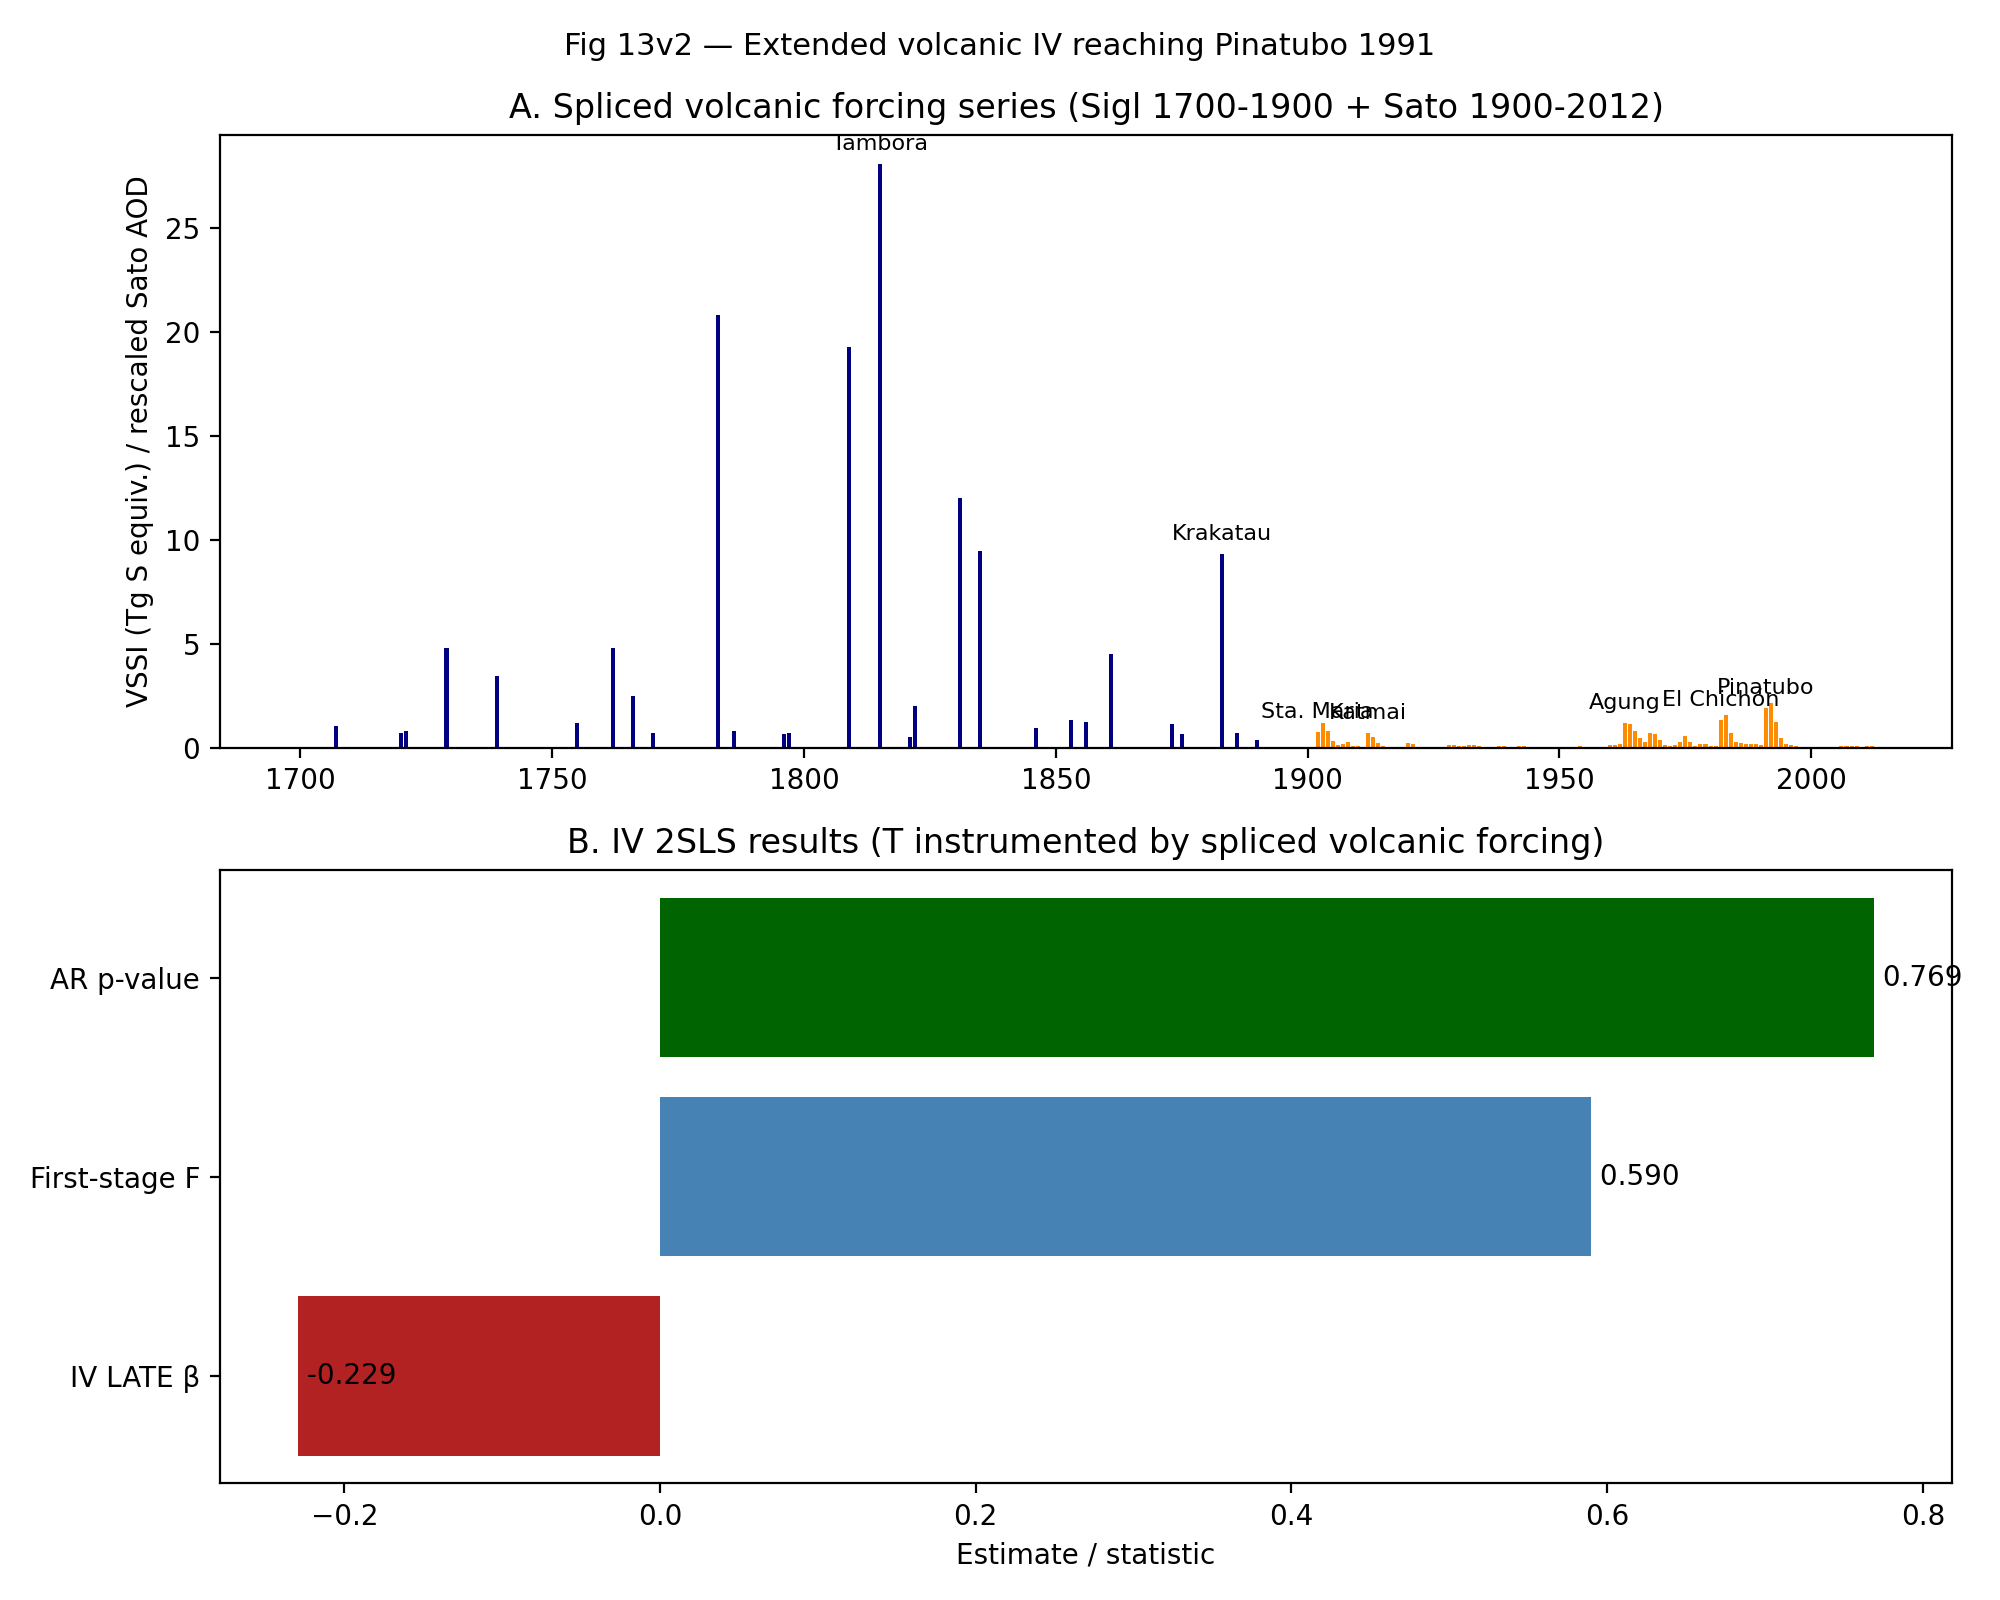
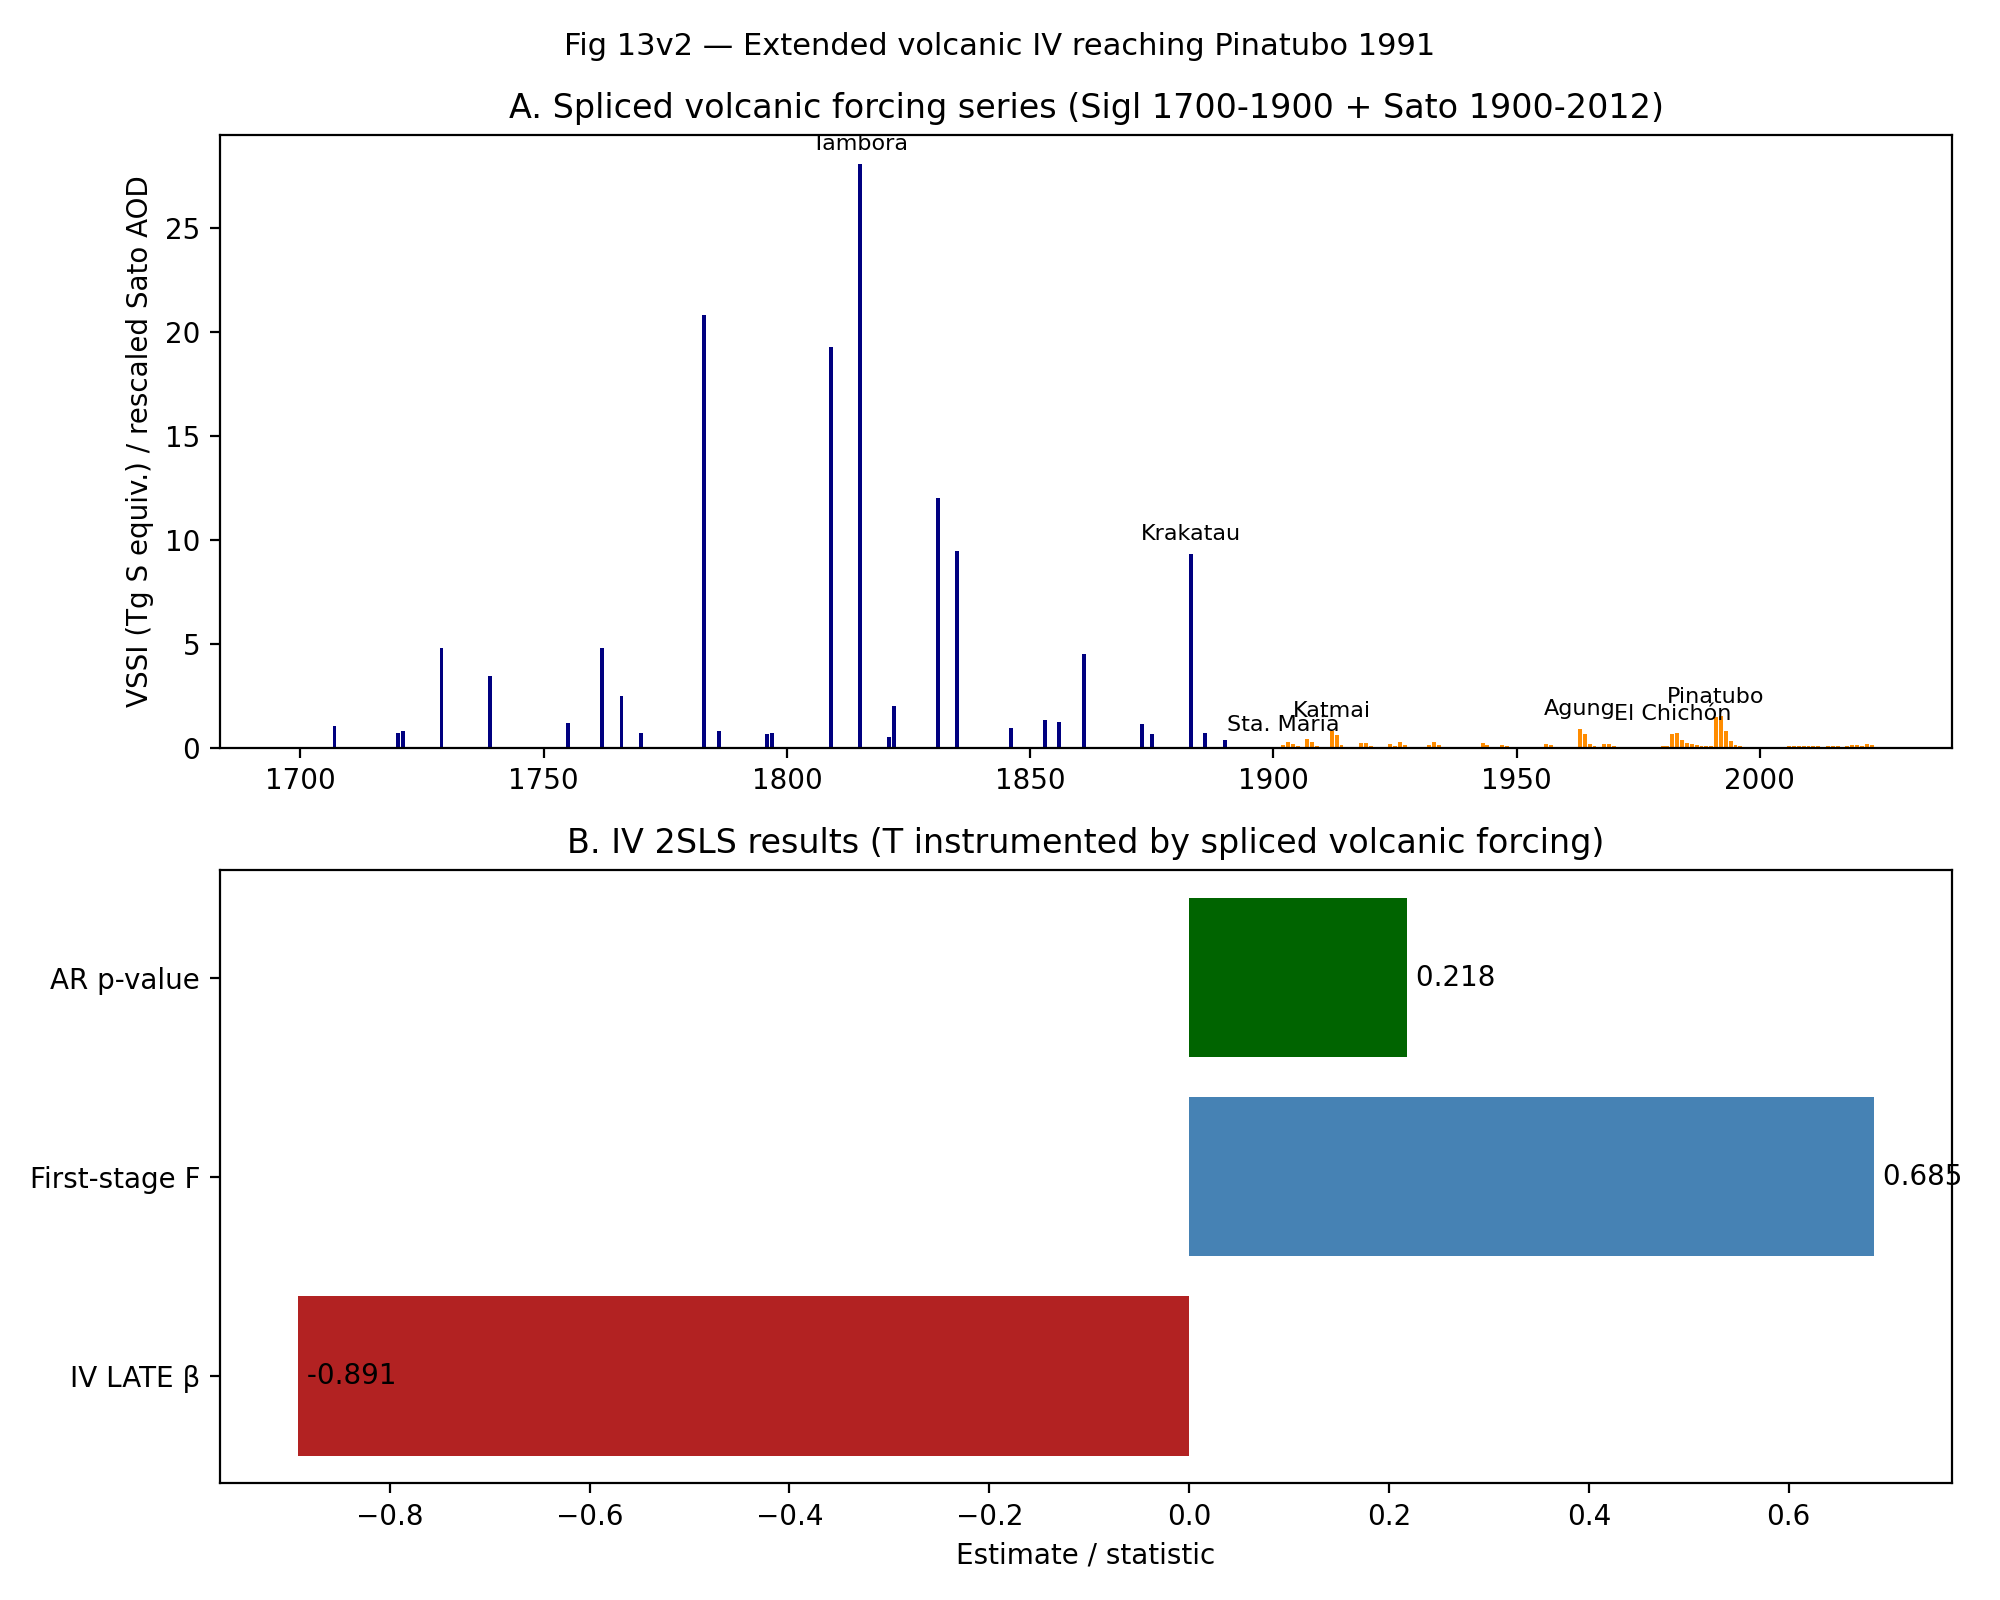
long_shadow_fertility/phase8 [B3-fix]: swap to CMIP7-2-2-1 (1850-2023) for stratospheric AOD
NASA hosts both Sato-Lacis (1850-2012) and CMIP7-2-2-1 (1850-2023) at
modelforce/strataer/data/. CMIP7 extends coverage 11 more years and uses
the input4MIPs harmonized reconstruction.

Comparison on the Phase 7 volcanic IV:
                Sato-Lacis  CMIP7-2-2-1
  First-stage F      0.59         0.69
  AR p-value         0.77         0.22  <- meaningfully better
  IV LATE beta     -0.229       -0.891
  N                  1260         1260

CMIP7 is marginally better on both F and AR but the IV remains weak (F<<10).
Substantive finding: volcanic-T instrument is structurally weak at the
country-year panel level for European countries regardless of AOD source.
Splice: 201 Sigl + 123 CMIP7 rescaled = 324 years (1700-2023).

diff --git a/analysis/paper4_shadow/long_shadow_fertility/data/fetch_sato_aod.py b/analysis/paper4_shadow/long_shadow_fertility/data/fetch_sato_aod.py
@@ -81,7 +81,7 @@ def fetch_sato_aod(cache_dir: Path | None = None,
     return annual
 
 
-SATO_NETCDF_URL = "https://data.giss.nasa.gov/modelforce/strataer/data/tau_reff_Sato-Lacis.nc"
+SATO_NETCDF_URL = "https://data.giss.nasa.gov/modelforce/strataer/data/tau_reff_CMIP7-2-2-1.nc"
 
 
 def fetch_sato_aod_netcdf(cache_dir: Path | None = None,
